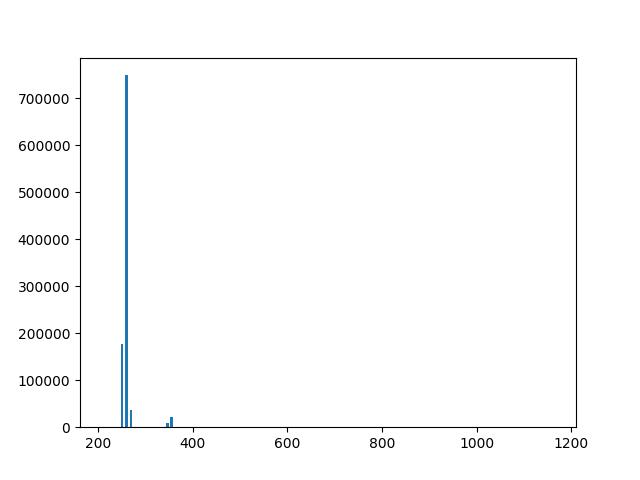
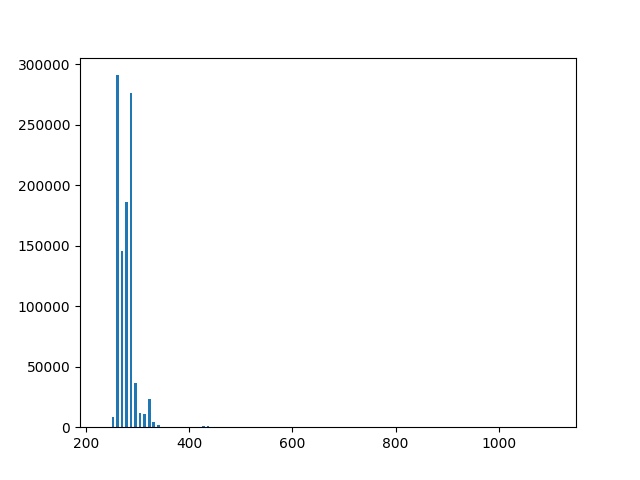
final version 1a

diff --git a/same_bank_measure/same_bank_measure.c b/same_bank_measure/same_bank_measure.c
@@ -3,14 +3,15 @@
 #include <stdio.h>
 #include <string.h>
 
-#define LENGTH_TAB 1000
+#define LENGTH_TAB 500000
 
 int rdtsc(){
     // Call rdtsc assembly command with a barrier assure by the command cpuid
     // Return the actual number of cpu cycle of the machine code
     int time;
     asm("xor %0, %0\n\t"
-        "cpuid\n\t"
+        // "cpuid\n\t"
+        "mfence\n\t"
         "rdtsc\n\t"
         "add %0, %%edx"
         : "=r" (time) 
@@ -23,13 +24,7 @@ int rdtsc(){
 int measure_access_two_values(int * tab, int i, int j){
     // measure the time to access the value of tab[i] and the value of tab[j]
     // one after another, and flush the two value after
-    int clock1 = rdtsc();
-
-    tab[i] = tab[i] +1;
-
-    tab[j] = tab[j] +1;
-    int clock2 = rdtsc();
-
+    
     void* value1 = &tab[i];
     void* value2 = &tab[j];
     asm("clflush 0(%0)\n\t"
@@ -37,6 +32,18 @@ int measure_access_two_values(int * tab, int i, int j){
         ::"r" (value1), "r" (value2)
         : "rax"
     );
+
+    
+    int clock1, clock2;
+
+    clock1 = rdtsc();
+
+    tab[i] = tab[i] +1;
+
+    tab[j] = tab[j] +1;
+
+    clock2 = rdtsc();
+
 
     return clock2-clock1;
 }
@@ -52,13 +59,12 @@ int main(){
 
     FILE * f = fopen("./access_two_value.csv", "w");
 
-    for(int i = 0; i < LENGTH_TAB; i++){
-        for(int j = 0; j < LENGTH_TAB; j++){
-            for(int r = 0; r < 20; r ++){
-                fprintf(f, "%d, ", measure_access_two_values(tab, i*4096+1, j*4096+1));
-            }
-            fprintf(f, "%d\n", measure_access_two_values(tab, i*4096+1, j*4096+1));
+    for(int j = 0; j < LENGTH_TAB; j++){
+        
+        for(int r = 0; r < 100; r ++){
+            fprintf(f, "%d, ", measure_access_two_values(tab, 0, j*4096+1));
         }
+        fprintf(f, "%d\n", measure_access_two_values(tab, 0, j*4096+1));
     }
 
     free(tab);

diff --git a/same_bank_measure/stat.py b/same_bank_measure/stat.py
@@ -1,8 +1,21 @@
 import pandas as pd
 import matplotlib.pyplot as plt 
 
+THRESHOLD = 300
+
 time_file = pd.read_csv("access_two_value.csv")
-tab = time_file.median(axis=1)
+tab = time_file.mean(axis=1)
+tab = tab[tab <= 500]
+
+c_under = len(tab[tab <= THRESHOLD])
+p_under= c_under / len(tab) * 100
+c_above = len(tab[tab > THRESHOLD])
+p_above = c_above / len(tab) * 100
+print(f"There are {c_under} ({p_under}%) value under threshold")
+print(f"There are {c_above} ({p_above}%) value above threshold")
 
 plt.hist(tab, rwidth=0.6, bins=100) 
 plt.show()
+
+
+
